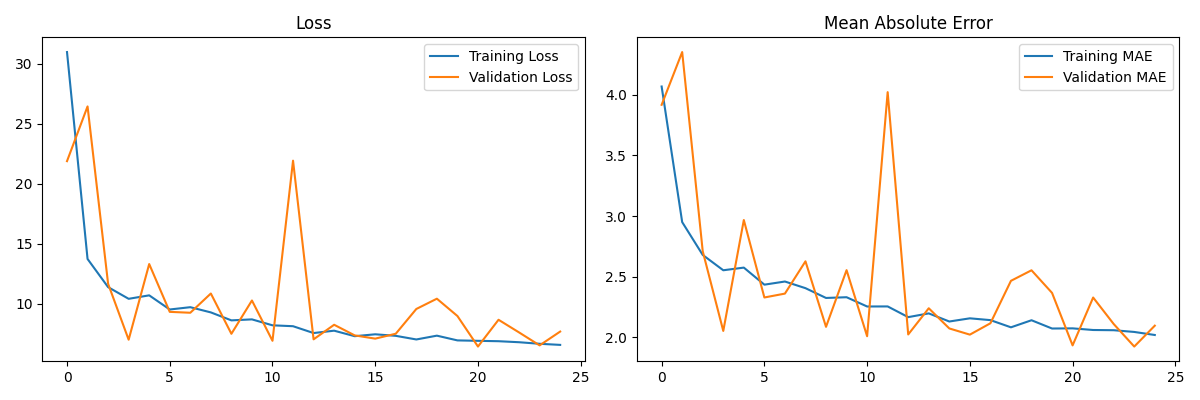
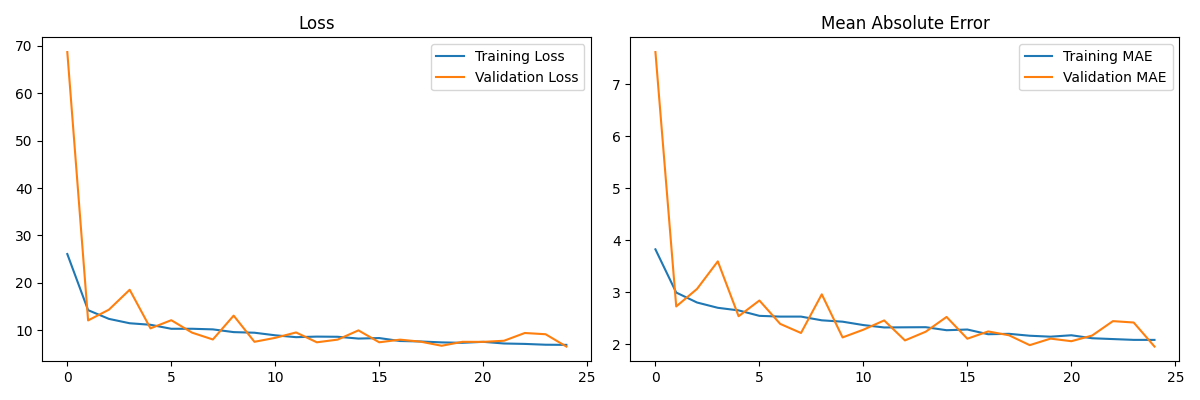
better custom loss

diff --git a/src/models/cnn_model.py b/src/models/cnn_model.py
@@ -13,7 +13,7 @@ from collections import Counter
 
 
 def create_simple_balanced_loss(grade_counts_dict):
-    """Simpler version with class balancing similar to sklearn"""
+    """Progressive weighting that gets more aggressive for rarer grades"""
     
     total_samples = sum(grade_counts_dict.values())
     n_classes = len(grade_counts_dict)
@@ -25,11 +25,22 @@ def create_simple_balanced_loss(grade_counts_dict):
         vgrade = difficulty_to_vgrade(difficulty)
         count = grade_counts_dict.get(vgrade, 1)
         
-        # Standard class balancing: total_samples / (n_classes * count)
-        weight = total_samples / (n_classes * count)
+        # Calculate base weight
+        base_weight = total_samples / (n_classes * count)
         
-        # But cap the weights to prevent extremes
-        weight = min(weight, 5.0)  # No weight more than 5x
+        # Progressive scaling: more aggressive for rarer grades
+        if base_weight <= 2.0:
+            # Common grades: minimal adjustment
+            weight = base_weight
+        elif base_weight <= 5.0:
+            # Uncommon grades: moderate boost
+            weight = base_weight * 1.2
+        else:
+            # Rare grades: more aggressive boost
+            weight = base_weight * 1.5
+        
+        # Higher cap but still reasonable
+        weight = min(weight, 10.0)
         
         difficulties.append(float(difficulty))
         weights.append(weight)
@@ -37,7 +48,7 @@ def create_simple_balanced_loss(grade_counts_dict):
     difficulty_tensor = tf.constant(difficulties, dtype=tf.float32)
     weight_tensor = tf.constant(weights, dtype=tf.float32)
     
-    def simple_weighted_mse_loss(y_true, y_pred):
+    def progressive_weighted_mse_loss(y_true, y_pred):
         base_mse = tf.square(y_true - y_pred)
         y_true_rounded = tf.round(tf.clip_by_value(y_true, 0.0, 44.0))
         indices = tf.cast(y_true_rounded, tf.int32)
@@ -45,7 +56,7 @@ def create_simple_balanced_loss(grade_counts_dict):
         weighted_mse = base_mse * tf.expand_dims(sample_weights, -1)
         return tf.reduce_mean(weighted_mse)
     
-    return simple_weighted_mse_loss
+    return progressive_weighted_mse_loss
 
 
 def encode_hold_types(placements_str):
@@ -420,16 +431,18 @@ def create_cnn_model(df, hold_data_df, X_train, X_test, y_train, y_test, loss_na
     z = layers.Dense(1024, activation='relu')(combined)
     z = layers.BatchNormalization()(z)
     z = layers.Dropout(0.2)(z)
+
     z = layers.Dense(512, activation='relu')(z)
     z = layers.BatchNormalization()(z)
     z = layers.Dropout(0.2)(z)
+
     z = layers.Dense(256, activation='relu')(z)
     z = layers.Dropout(0.2)(z)
     z = layers.Dense(128, activation='relu')(z)
 
     z = layers.Dense(64, activation='relu')(z)
     z = layers.Dropout(0.2)(z)
-    output = layers.Dense(1)(z)  # Single continuous output
+    output = layers.Dense(1)(z)  
     
     # Create model
     model = models.Model(inputs=[grid_input, numerical_input], outputs=output)
@@ -476,7 +489,7 @@ def create_cnn_model(df, hold_data_df, X_train, X_test, y_train, y_test, loss_na
         [train_grids, train_features],
         y_train,
         epochs=25,
-        batch_size=64,
+        batch_size=32,
         validation_split=0.2,
         verbose=1,
         callbacks=[early_stopping]
